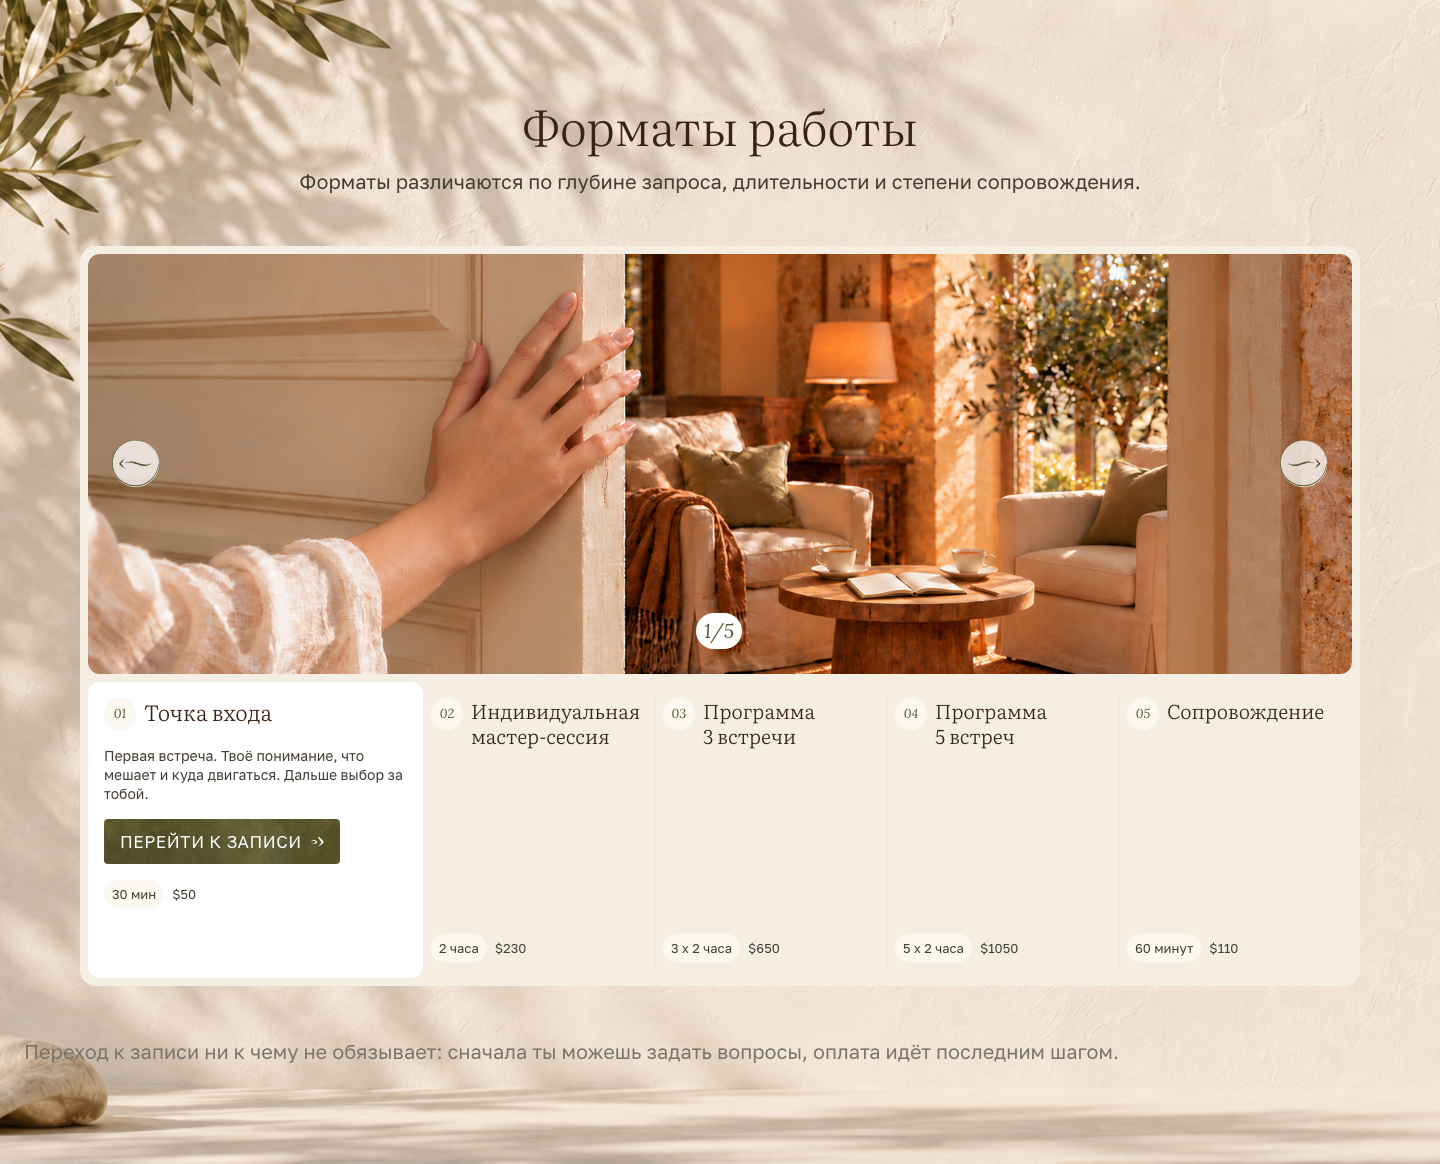
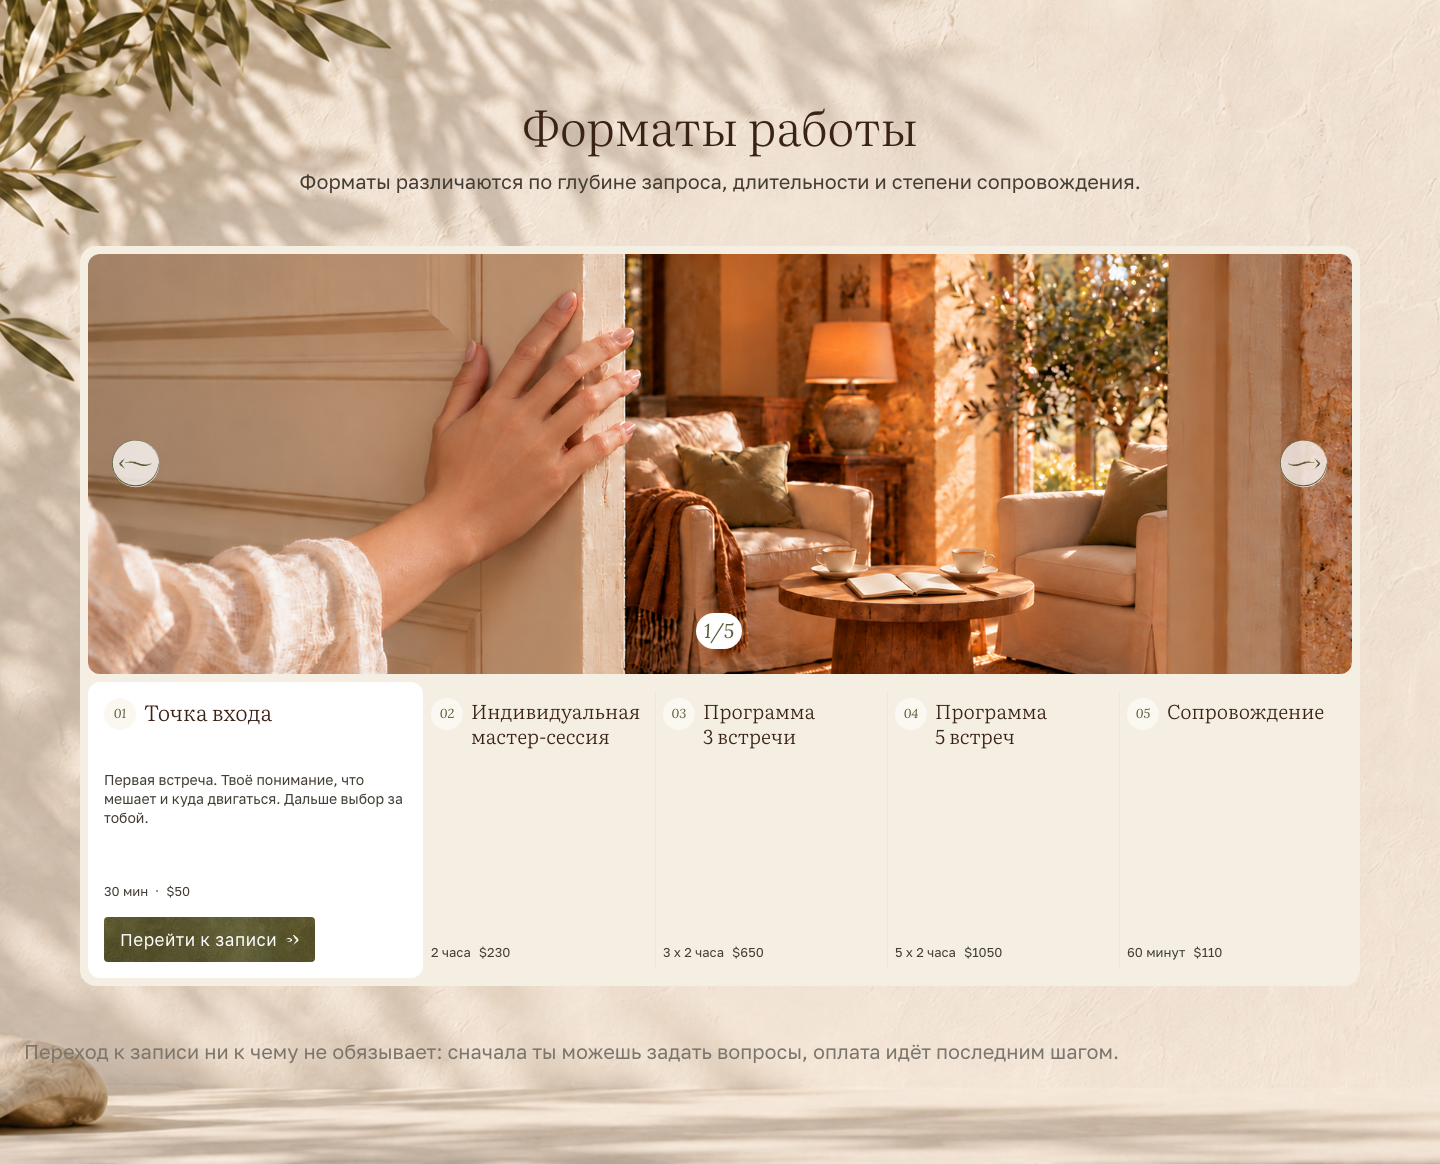
fix(formats,quiz): пять ошибок, найденных сравнением с v2
v2 в целом дальше от кадра (20,29 против 3,49), но в полосе 7000–7200 был
точнее нас. Сравнил три картинки по полосам 100 px — кадр, наш, v2 — и в
местах, где v2 ближе, нашлись ошибки:

formats:
- кнопка была капсом, в макете caps: false
- кнопка стояла до метаданных, в узле наоборот (мета y=199, кнопка y=235)
- плашка вокруг длительности — выдумка: у tab-meta радиус 999, но заливки нет
- коробка заголовка задана явно (176×50 / 129×56), без неё всё съезжало на 24
- ширины метаданных и кнопки по содержимому, а не на всю вкладку

quiz:
- у кнопки stroke 1 px цветом thread, которого в компоненте не было вовсе.
  Добавлен проп outlined, рисуется inset-тенью

Итог: formats 4,55 → 2,54, разметка 18 → 24 узла; quiz 2,23 → 2,20;
страница 3,49 → 3,26.

Причина, почему ворота молчали: размечено 24 узла из 76. Записано долгом
(решение 137).

diff --git a/docs/decisions.md b/docs/decisions.md
@@ -174,3 +174,11 @@
 | 127 | Шаблон страницы структуры знал имя проекта | В `tools/scaffold/src/pages/structure.astro` стояло `<BaseLayout title="Структура — Syntonia">`: новый сайт получил бы чужое имя в заголовке. Теперь `title={\`Структура — ${file.name}\`}` — имя приходит из снимка файла | найдено проверкой 126 |
 | 128 | Страница дизайн-системы — в JSON | `structure.mjs` пропускал секции по константе `'design-system'`. Теперь `project.designSystemPage`, и `discover` пишет ключ сам, определяя страницу по имени (`/design\s*system/`) | 0 привязок в коде |
 | 129 | Страница по умолчанию — из JSON | `page-compare` брал `'home'` как значение по умолчанию. У нового сайта первая страница может называться иначе — теперь берётся первая из `project.pages`, кроме дизайн-системы | проверено: 10548 px, 3,49 |
+| 130 | Сравнение с v2 нашло то, чего не видели ворота | v2 в целом дальше от кадра (20,29 против 3,49), но в полосе 7000–7200 был точнее. Там и нашлись ошибки `formats`. Метод: считать разницу по полосам 100 px для трёх картинок — кадр, наш, v2 — и смотреть, где v2 ближе | найдено 5 ошибок |
+| 131 | `formats`: кнопка была капсом | В макете `caps: "false"` — «Перейти к записи» обычным регистром. У нас стоял капс | исправлено |
+| 132 | `formats`: порядок метаданных и кнопки | В узле `tab-meta` на y=199, кнопка на y=235 — сначала цена с длительностью, потом кнопка. У нас наоборот | исправлено |
+| 133 | `formats`: плашка вокруг длительности — выдумка | У `tab-meta` радиус 999, но **заливки нет**: в кадре просто «30 мин · $50» с точкой. Я нарисовал плашку, которой в макете нет | убрана |
+| 134 | `formats`: коробка заголовка задана, а не вытекает | У `tab-title` 176×50 у остальных и 129×56 у активной, хотя текст «Точка входа» помещается в строку. Без высоты всё ниже съезжало на 24 px | 0 расхождений, 24 узла |
+| 135 | `formats`: 4,55 → 2,54 | После пяти правок: пиксель вдвое лучше, разметка 18 → 24 узла. Покрытие было 24 %, поэтому ворота молчали | 2,54 |
+| 136 | `quiz`: у кнопки есть обводка | У инстанса stroke 1 px цветом `thread` (#c9bea4), хотя у набора её нет. В компоненте обводки не было вовсе — добавлен проп `outlined`, рисуется inset-тенью | 2,23 → 2,20 |
+| 137 | Покрытие разметки — слабое место | `formats` 24 из 76, `voices` 35 из 70, `faq` 32 из 52, `header` 14 из 29. Ворота проверяют только размеченное; неразмеченные узлы прячут ошибки, как было с плашкой и порядком. Предложение: размечать все узлы спеки, а не только глубину ≤ 2 | записано как долг |
